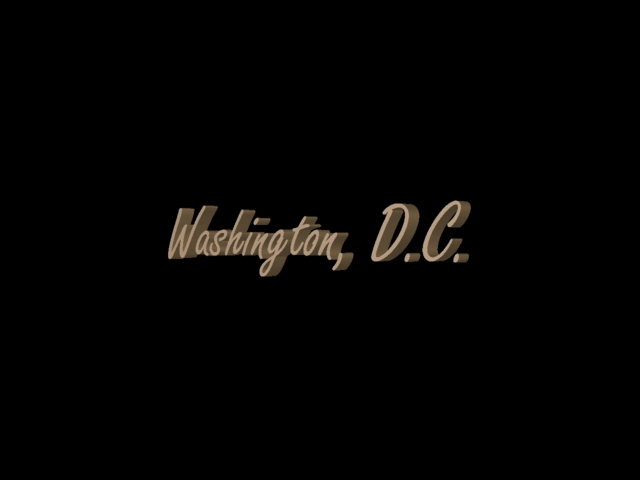
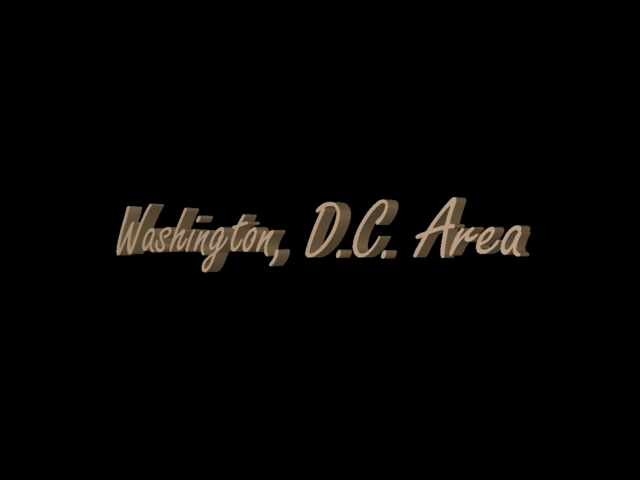
Change to DC Area, prep for all queries

Changed region(s): [[0.1562, 0.4062, 0.8438, 0.5938]]

diff --git a/index.html b/index.html
@@ -465,11 +465,11 @@
 
             <tr class="menu-item">
               <td class="menu-item-img" title="View slideshow"><a href="MULTIYR/slideshow_washingtondc.html" target="_blank">
-                <img src="MULTIYR/cover_washingtondc.jpg" width="200" height="150" alt="Washington, D.C."><br>
+                <img src="MULTIYR/cover_washingtondc.jpg" width="200" height="150" alt="Washington, D.C. Area"><br>
                 <span class="menu-item-img-desc">Arlington National Cemetery</span>
               </a></td>
               <td class="menu-item-txt">
-                <span class="menu-item-txt-trip">Washington, D.C.</span><br>
+                <span class="menu-item-txt-trip">Washington, D.C. Area</span><br>
                 <span class="menu-item-txt-date">
                   May 1991<br>
                   March 8-13, 2014<br>

diff --git a/MULTIYR/slideshow_washingtondc.html b/MULTIYR/slideshow_washingtondc.html
@@ -3,7 +3,7 @@
   <head>
     <meta charset="utf-8">
     <base href="..">
-    <title>Washington, D.C.</title>
+    <title>Washington, D.C. Area</title>
     <link rel="stylesheet" href="css/slideshow.css">
     <script src="js/slideshow.js"></script>
     <script src="js/description_year.js"></script>
@@ -12,7 +12,7 @@
     <table id="outerTable">
       <tr>
         <td>
-          <span id="slideTitle">Washington, D.C.</span>
+          <span id="slideTitle">Washington, D.C. Area</span>
         </td>
       </tr>
       <tr>

diff --git a/js/description_park.js b/js/description_park.js
@@ -67,7 +67,7 @@ function getDescription(path) {
 
     // Append trip year if valid dir format
     var dir = path.match(/\/[0-9]{4}(-[0-9]{2})?[A-Z]*\//gi);
-    if (dir != null) {
+    if (result.length > 0 && dir != null) {
       if (dir[0].lastIndexOf('-') >= 5 && dir[0].length >= 8) {
         result = result + "<BR>(" + dir[0].substring(1,8) + ")";
       } else if (dir[0].length >= 5) {

diff --git a/js/description_year.js b/js/description_year.js
@@ -48,7 +48,7 @@ function getDescription(path) {
 
     // Append trip year if valid dir format
     var dir = path.match(/\/[0-9]{4}(-[0-9]{2})?[A-Z]*\//gi);
-    if (dir != null) {
+    if (result.length > 0 && dir != null) {
       if (dir[0].lastIndexOf('-') >= 5 && dir[0].length >= 8) {
         result = result + "<BR>(" + dir[0].substring(1,8) + ")";
       } else if (dir[0].length >= 5) {

diff --git a/js/description_trip.js b/js/description_trip.js
@@ -48,7 +48,7 @@ function getDescription(path) {
 
     // Append trip name if valid dir format
     var dir = path.match(/\/[0-9]{4}(-[0-9]{2})?[A-Z]{1}[A-Z0-9]*\//gi);
-    if (dir != null) {
+    if (result.length > 0 && dir != null) {
       var trip = "";
 
       // Get trip name from dir
